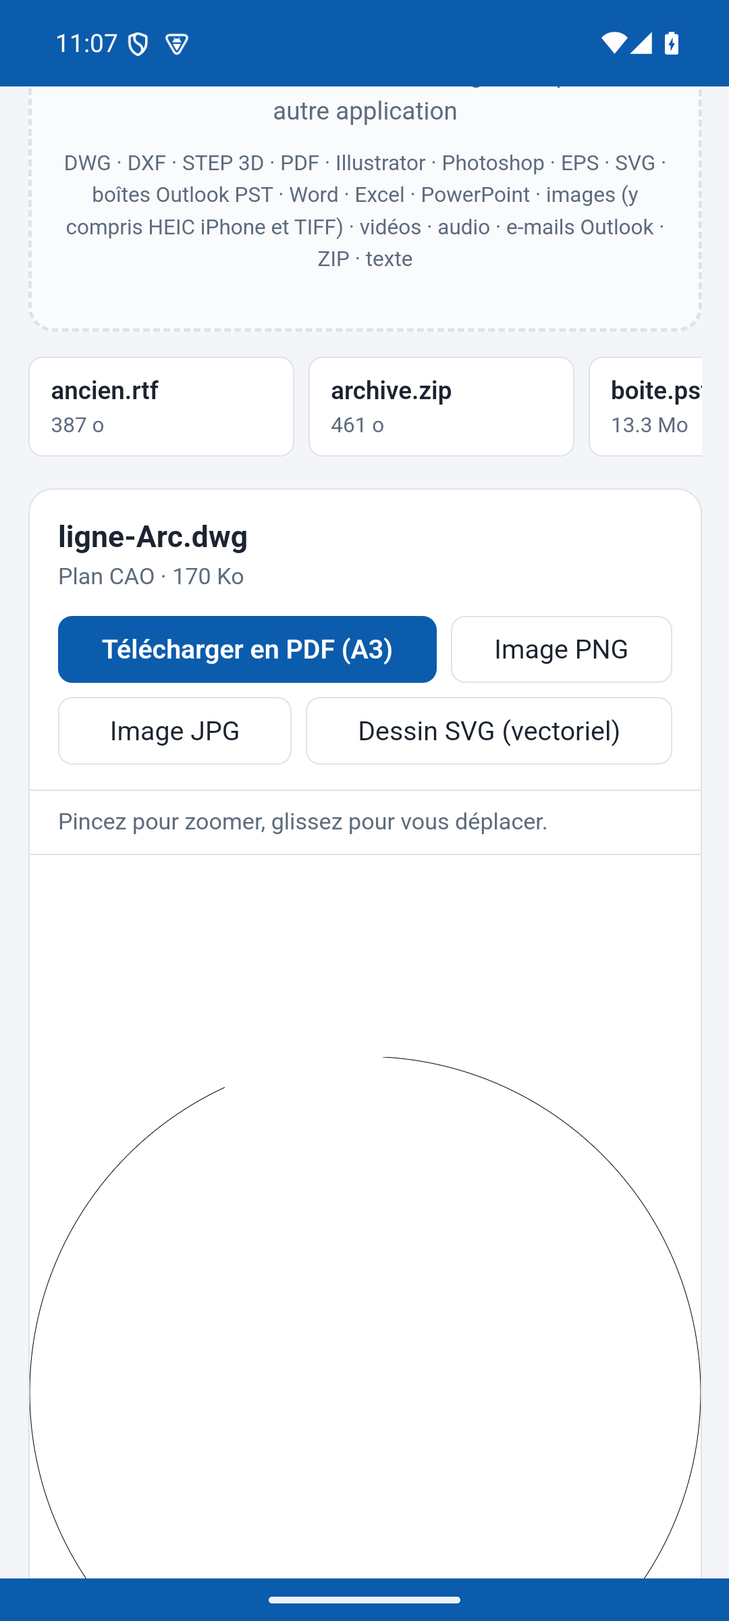
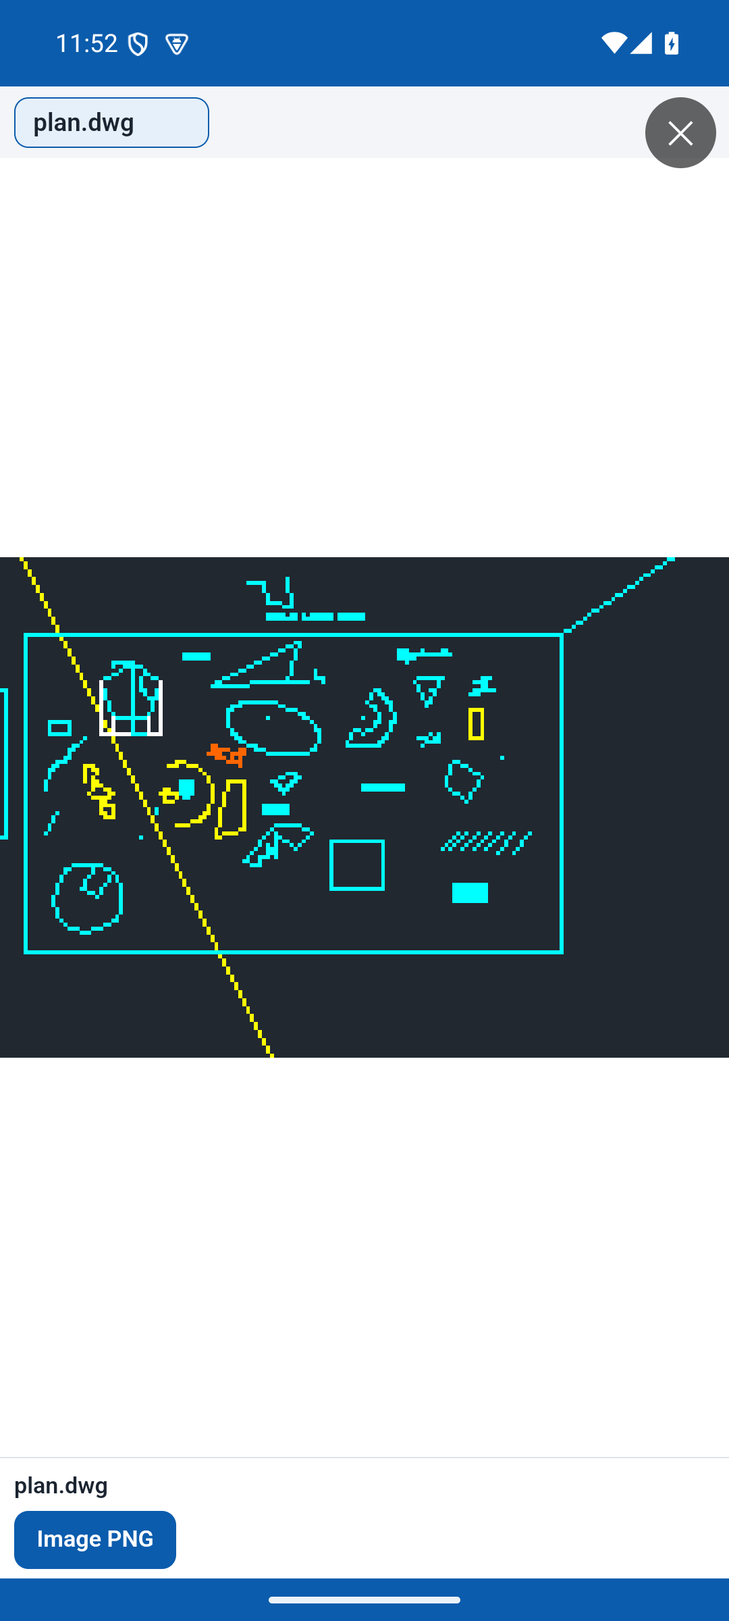
Aperçu visuel plein écran dès l'ouverture d'un fichier
Ajoute le zoom à deux doigts, l'image intégrée des DWG en secours
et l'ouverture d'un dossier entier.

diff --git a/site-source/js/lib-JMNYUMEN.js b/site-source/js/lib-JMNYUMEN.js
@@ -1,3 +1,3 @@
 import{a as N,b as R,d as k,e as T,f as A,l as j}from"./lib-5A73KNPL.js";import"./lib-ELKEZTM7.js";var I=null;async function O(c){let{LibreDwg:o,Dwg_File_Type:l}=await import("./lib-4B4YEU6E.js");I??=await o.create(new URL("./",import.meta.url).href);try{let r=I.dwg_read_data(c,l.DWG);if(!r)throw new Error("Lecture du DWG impossible (fichier prot\xE9g\xE9, endommag\xE9 ou version trop r\xE9cente).");try{let s=I.convert(r);if(!s.entities?.length)throw new Error("Le plan ne contient aucun \xE9l\xE9ment lisible.");return I.dwg_to_svg(s)}finally{I.dwg_free(r)}}catch(e){if(e instanceof WebAssembly.RuntimeError){I=null;o.instance=null}throw e}}async function F(c){let{default:o}=await import("./lib-ZIBAMDM3.js"),l=new o().parseSync(c),r={x1:1/0,y1:1/0,x2:-1/0,y2:-1/0},s=(x,w)=>{!isFinite(x)||!isFinite(w)||(r.x1=Math.min(r.x1,x),r.y1=Math.min(r.y1,w),r.x2=Math.max(r.x2,x),r.y2=Math.max(r.y2,w))},e=x=>+(+x).toFixed(4),u=x=>x*180/Math.PI;function m(x,w=0,h=!0){let f="";for(let t of x||[]){let $=t.vertices||[];switch(t.type){case"LINE":h&&$.forEach(a=>s(a.x,a.y)),f+=`<line x1="${e($[0].x)}" y1="${e($[0].y)}" x2="${e($[1].x)}" y2="${e($[1].y)}"/>`;break;case"LWPOLYLINE":case"POLYLINE":{if(!$.length)break;h&&$.forEach(n=>s(n.x,n.y));let a=$.map(n=>`${e(n.x)},${e(n.y)}`).join(" ");f+=t.shape?`<polygon points="${a}"/>`:`<polyline points="${a}"/>`;break}case"CIRCLE":h&&(s(t.center.x-t.radius,t.center.y-t.radius),s(t.center.x+t.radius,t.center.y+t.radius)),f+=`<circle cx="${e(t.center.x)}" cy="${e(t.center.y)}" r="${e(t.radius)}"/>`;break;case"ARC":{let{x:a,y:n}=t.center,i=t.radius,g=t.startAngle,p=t.endAngle;p<g&&(p+=2*Math.PI);let b=p-g>Math.PI?1:0,[M,P,S,D]=[a+i*Math.cos(g),n+i*Math.sin(g),a+i*Math.cos(p),n+i*Math.sin(p)];h&&(s(M,P),s(S,D),s(a,n)),f+=`<path d="M${e(M)} ${e(P)} A${e(i)} ${e(i)} 0 ${b} 1 ${e(S)} ${e(D)}"/>`;break}case"ELLIPSE":{let{x:a,y:n}=t.center,i=t.majorAxisEndPoint,g=Math.hypot(i.x,i.y),p=g*t.axisRatio,b=u(Math.atan2(i.y,i.x));h&&(s(a-g,n-g),s(a+g,n+g)),f+=`<ellipse cx="${e(a)}" cy="${e(n)}" rx="${e(g)}" ry="${e(p)}" transform="rotate(${e(b)} ${e(a)} ${e(n)})"/>`;break}case"SPLINE":{let a=t.fitPoints?.length?t.fitPoints:t.controlPoints||[];if(!a.length)break;h&&a.forEach(n=>s(n.x,n.y)),f+=`<polyline points="${a.map(n=>`${e(n.x)},${e(n.y)}`).join(" ")}"/>`;break}case"SOLID":case"3DFACE":{let a=(t.points||$).filter(Boolean);a.length&&(f+=`<polygon class="plein" points="${a.map(n=>`${e(n.x)},${e(n.y)}`).join(" ")}"/>`);break}case"TEXT":case"MTEXT":case"ATTRIB":{let a=t.startPoint||t.position;if(!a)break;let n=t.textHeight||t.height||2.5,i=String(t.text||"").replace(/\\P/g," ").replace(/\\[A-Za-z][^;]*;|[{}]/g,"");h&&(s(a.x,a.y),s(a.x+i.length*n*.6,a.y+n));let g=-(t.rotation||0);f+=`<text x="${e(a.x)}" y="${e(-a.y)}" font-size="${e(n)}" transform="scale(1,-1) rotate(${e(g)} ${e(a.x)} ${e(-a.y)})">${i.replace(/[&<>]/g,p=>({"&":"&amp;","<":"&lt;",">":"&gt;"})[p])}</text>`;break}case"INSERT":case"DIMENSION":{let a=l.blocks?.[t.name||t.block];if(!a||w>8)break;let n=t.position||{x:0,y:0},i=t.xScale??1,g=t.yScale??1,p=t.rotation||0,b=a.position||{x:0,y:0};h&&t.type==="INSERT"&&s(n.x,n.y);let M=t.type==="DIMENSION"?"":`translate(${e(n.x)} ${e(n.y)}) rotate(${e(p)}) scale(${e(i)} ${e(g)}) translate(${e(-b.x)} ${e(-b.y)})`;f+=`<g transform="${M}">${m(a.entities,w+1,t.type==="DIMENSION"&&h)}</g>`;break}}}return f}let y=m(l.entities);if(!isFinite(r.x1))throw new Error("Le plan ne contient aucun \xE9l\xE9ment affichable.");let d=r.x2-r.x1||1,E=r.y2-r.y1||1,L=Math.max(d,E)*.03,C=Math.max(d,E)/2500;return`<svg xmlns="http://www.w3.org/2000/svg" viewBox="${e(r.x1-L)} ${e(-r.y2-L)} ${e(d+2*L)} ${e(E+2*L)}">
 <style>*{fill:none;stroke:#000;stroke-width:${e(C)}px;vector-effect:non-scaling-stroke}text{fill:#000;stroke:none;font-family:Arial,sans-serif}.plein{fill:#000}</style>
-<g transform="scale(1,-1)">${y}</g></svg>`}function U(c){return c.replace(/rgb\(255,\s*255,\s*255\)/g,"rgb(0,0,0)").replace(/#ffffff\b/gi,"#000000").replace(/(<svg[^>]*?)\swidth="100%"\s+height="100%"/,"$1")}function B(c){let o=c.match(/viewBox="([^"]+)"/)?.[1].trim().split(/[\s,]+/).map(Number);return o&&o[2]>0&&o[3]>0?{l:o[2],h:o[3]}:{l:1.414,h:1}}async function v(c,o){let{l,h:r}=B(c),s=o/Math.max(l,r),e=c.replace(/<svg\b/,`<svg width="${Math.round(l*s)}" height="${Math.round(r*s)}"`),u=URL.createObjectURL(new Blob([e],{type:"image/svg+xml"}));try{let m=new Image;m.src=u,await m.decode();let y=T(l*s,r*s);return y.getContext("2d").drawImage(m,0,0,y.width,y.height),y}finally{URL.revokeObjectURL(u)}}async function G(c,o,l){l.statut("Lecture du plan\u2026");let r=await c.arrayBuffer(),s=U(R(c.name)==="dwg"?await O(r):await F(new TextDecoder().decode(r)));l.statut("Pincez pour zoomer, glissez pour vous d\xE9placer.");let e=new Blob([s],{type:"image/svg+xml"}),{l:u,h:m}=B(s);o.innerHTML="",o.classList.add("plan");let y=new Image;y.src=URL.createObjectURL(e),y.alt=c.name,y.draggable=!1,y.style.aspectRatio=`${u} / ${m}`,o.appendChild(y),j(o,y);let d=N(c.name);return[{libelle:"T\xE9l\xE9charger en PDF (A3)",principal:!0,faire:async()=>l.telecharger(await A([await v(s,4200)],"A3"),d+".pdf")},{libelle:"Image PNG",faire:async()=>l.telecharger(await k(await v(s,4200)),d+".png")},{libelle:"Image JPG",faire:async()=>l.telecharger(await k(await v(s,4200),"image/jpeg"),d+".jpg")},{libelle:"Dessin SVG (vectoriel)",aide:"S'ouvre dans tout navigateur, zoom sans perte",faire:async()=>l.telecharger(e,d+".svg")}]}export{G as ouvrir};
+<g transform="scale(1,-1)">${y}</g></svg>`}function U(c){return c.replace(/rgb\(255,\s*255,\s*255\)/g,"rgb(0,0,0)").replace(/#ffffff\b/gi,"#000000").replace(/(<svg[^>]*?)\swidth="100%"\s+height="100%"/,"$1")}function B(c){let o=c.match(/viewBox="([^"]+)"/)?.[1].trim().split(/[\s,]+/).map(Number);return o&&o[2]>0&&o[3]>0?{l:o[2],h:o[3]}:{l:1.414,h:1}}async function v(c,o){let{l,h:r}=B(c),s=o/Math.max(l,r),e=c.replace(/<svg\b/,`<svg width="${Math.round(l*s)}" height="${Math.round(r*s)}"`),u=URL.createObjectURL(new Blob([e],{type:"image/svg+xml"}));try{let m=new Image;m.src=u,await m.decode();let y=T(l*s,r*s);return y.getContext("2d").drawImage(m,0,0,y.width,y.height),y}finally{URL.revokeObjectURL(u)}}async function G(c,o,l){l.statut("Lecture du plan\u2026");let r=await c.arrayBuffer(),s=U(R(c.name)==="dwg"?await O(r):await F(new TextDecoder().decode(r)));l.statut("Pincez pour zoomer, glissez pour vous d\xE9placer.");let e=new Blob([s],{type:"image/svg+xml"}),{l:u,h:m}=B(s);o.innerHTML="",o.classList.add("plan");let y=new Image;y.src=URL.createObjectURL(e),y.alt=c.name,y.draggable=!1,y.style.aspectRatio=`${u} / ${m}`,o.appendChild(y),j(o,y);let d=N(c.name);return[{libelle:"T\xE9l\xE9charger en PDF (A3)",principal:!0,faire:async()=>l.telecharger(await A([await v(s,4200)],"A3"),d+".pdf")},{libelle:"Image PNG",faire:async()=>l.telecharger(await k(await v(s,4200)),d+".png")},{libelle:"Image JPG",faire:async()=>l.telecharger(await k(await v(s,4200),"image/jpeg"),d+".jpg")},{libelle:"Dessin SVG (vectoriel)",aide:"S'ouvre dans tout navigateur, zoom sans perte",faire:async()=>l.telecharger(e,d+".svg")}]}async function H(c,o,l,r){try{return await G(c,o,l,r)}catch(s){if(R(c.name)==="dwg"){let e=await(await import("./apercu-dwg.js")).afficher(c,o,l,j);if(e)return e}throw s}}export{H as ouvrir};

diff --git a/site-source/js/lib-5A73KNPL.js b/site-source/js/lib-5A73KNPL.js
@@ -1,1 +1,1 @@
-var m=n=>n.replace(/\.[^.]+$/,""),f=n=>(n.match(/\.([^.]+)$/)?.[1]||"").toLowerCase();function w(n,a){let t=document.createElement("a");t.href=URL.createObjectURL(n),t.download=a,document.body.appendChild(t),t.click(),t.remove(),setTimeout(()=>URL.revokeObjectURL(t.href),6e4)}var u=(n,a="image/png",t=.92)=>new Promise(i=>n.toBlob(i,a,t));function x(n,a,t="#ffffff"){let i=document.createElement("canvas");i.width=Math.round(n),i.height=Math.round(a);let e=i.getContext("2d");return t&&(e.fillStyle=t,e.fillRect(0,0,i.width,i.height)),i}var g={A4:[595.28,841.89],A3:[841.89,1190.55]};async function v(n,a="A4"){let{PDFDocument:t}=await import("./lib-KSVUEERB.js"),i=await t.create();for(let e of n){let s=await i.embedJpg(await(await u(e,"image/jpeg",.9)).arrayBuffer()),[r,o]=a==="image"?[e.width*.75,e.height*.75]:g[a];a!=="image"&&e.width>e.height&&([r,o]=[o,r]);let d=a==="image"?0:20,c=Math.min((r-2*d)/e.width,(o-2*d)/e.height);i.addPage([r,o]).drawImage(s,{x:(r-e.width*c)/2,y:(o-e.height*c)/2,width:e.width*c,height:e.height*c})}return new Blob([await i.save()],{type:"application/pdf"})}async function b(n){let a=await import("./lib-3NFRFBSE.js"),t=[];for(let e of n)if(e.saut)t.push(new a.Paragraph({children:[new a.PageBreak]}));else if(e.titre)t.push(new a.Paragraph({text:e.titre,heading:a.HeadingLevel.HEADING_1}));else if(e.image){let r=Math.min(1,640/e.image.largeur,900/e.image.hauteur);t.push(new a.Paragraph({children:[new a.ImageRun({type:e.image.type||"png",data:e.image.data,transformation:{width:Math.round(e.image.largeur*r),height:Math.round(e.image.hauteur*r)}})]}))}else t.push(new a.Paragraph({text:e.texte??""}));let i=new a.Document({sections:[{children:t}]});return a.Packer.toBlob(i)}function y(n,a=!1){let t=document.createElement("style");t.textContent=`@page { size: ${a?"landscape":"portrait"}; margin: 12mm; }`,document.head.appendChild(t);let i=document.title;document.title=m(n),document.body.classList.add("impression"),window.print(),document.body.classList.remove("impression"),document.title=i,t.remove()}function L(n){try{return new TextDecoder("utf-8",{fatal:!0}).decode(n)}catch{return new TextDecoder("windows-1252").decode(n)}}function P(n){let a=Math.min(n.length,4096),t=0;for(let i=0;i<a;i++){let e=n[i];if(e===0)return!1;(e<9||e>13&&e<32)&&t++}return t<a*.02}function D(n){return String(n).replace(/[&<>"']/g,a=>({"&":"&amp;","<":"&lt;",">":"&gt;",'"':"&quot;","'":"&#39;"})[a])}function E(n,a){let t=1,i=0,e=0,s=null;n.classList.add("zoomable");let r=()=>{a.style.transform=`translate(${i}px, ${e}px) scale(${t})`};n.addEventListener("wheel",o=>{o.preventDefault();let d=n.getBoundingClientRect(),c=o.clientX-d.left,l=o.clientY-d.top,h=o.deltaY<0?1.2:1/1.2,p=Math.min(40,Math.max(.2,t*h));i=c-(c-i)*(p/t),e=l-(l-e)*(p/t),t=p,r()},{passive:!1}),n.addEventListener("pointerdown",o=>{s=[o.clientX-i,o.clientY-e],n.setPointerCapture(o.pointerId)}),n.addEventListener("pointermove",o=>{s&&(i=o.clientX-s[0],e=o.clientY-s[1],r())}),n.addEventListener("pointerup",()=>{s=null}),n.addEventListener("dblclick",()=>{t=1,i=e=0,r()})}export{m as a,f as b,w as c,u as d,x as e,v as f,b as g,y as h,L as i,P as j,D as k,E as l};
+var m=n=>n.replace(/\.[^.]+$/,""),f=n=>(n.match(/\.([^.]+)$/)?.[1]||"").toLowerCase();function w(n,a){let t=document.createElement("a");t.href=URL.createObjectURL(n),t.download=a,document.body.appendChild(t),t.click(),t.remove(),setTimeout(()=>URL.revokeObjectURL(t.href),6e4)}var u=(n,a="image/png",t=.92)=>new Promise(i=>n.toBlob(i,a,t));function x(n,a,t="#ffffff"){let i=document.createElement("canvas");i.width=Math.round(n),i.height=Math.round(a);let e=i.getContext("2d");return t&&(e.fillStyle=t,e.fillRect(0,0,i.width,i.height)),i}var g={A4:[595.28,841.89],A3:[841.89,1190.55]};async function v(n,a="A4"){let{PDFDocument:t}=await import("./lib-KSVUEERB.js"),i=await t.create();for(let e of n){let s=await i.embedJpg(await(await u(e,"image/jpeg",.9)).arrayBuffer()),[r,o]=a==="image"?[e.width*.75,e.height*.75]:g[a];a!=="image"&&e.width>e.height&&([r,o]=[o,r]);let d=a==="image"?0:20,c=Math.min((r-2*d)/e.width,(o-2*d)/e.height);i.addPage([r,o]).drawImage(s,{x:(r-e.width*c)/2,y:(o-e.height*c)/2,width:e.width*c,height:e.height*c})}return new Blob([await i.save()],{type:"application/pdf"})}async function b(n){let a=await import("./lib-3NFRFBSE.js"),t=[];for(let e of n)if(e.saut)t.push(new a.Paragraph({children:[new a.PageBreak]}));else if(e.titre)t.push(new a.Paragraph({text:e.titre,heading:a.HeadingLevel.HEADING_1}));else if(e.image){let r=Math.min(1,640/e.image.largeur,900/e.image.hauteur);t.push(new a.Paragraph({children:[new a.ImageRun({type:e.image.type||"png",data:e.image.data,transformation:{width:Math.round(e.image.largeur*r),height:Math.round(e.image.hauteur*r)}})]}))}else t.push(new a.Paragraph({text:e.texte??""}));let i=new a.Document({sections:[{children:t}]});return a.Packer.toBlob(i)}function y(n,a=!1){let t=document.createElement("style");t.textContent=`@page { size: ${a?"landscape":"portrait"}; margin: 12mm; }`,document.head.appendChild(t);let i=document.title;document.title=m(n),document.body.classList.add("impression"),window.print(),document.body.classList.remove("impression"),document.title=i,t.remove()}function L(n){try{return new TextDecoder("utf-8",{fatal:!0}).decode(n)}catch{return new TextDecoder("windows-1252").decode(n)}}function P(n){let a=Math.min(n.length,4096),t=0;for(let i=0;i<a;i++){let e=n[i];if(e===0)return!1;(e<9||e>13&&e<32)&&t++}return t<a*.02}function D(n){return String(n).replace(/[&<>"']/g,a=>({"&":"&amp;","<":"&lt;",">":"&gt;",'"':"&quot;","'":"&#39;"})[a])}function E(n,a){let t=1,i=0,e=0,s=null;n.classList.add("zoomable");let r=()=>{a.style.transform=`translate(${i}px, ${e}px) scale(${t})`};n.addEventListener("wheel",o=>{o.preventDefault();let d=n.getBoundingClientRect(),c=o.clientX-d.left,l=o.clientY-d.top,h=o.deltaY<0?1.2:1/1.2,p=Math.min(40,Math.max(.2,t*h));i=c-(c-i)*(p/t),e=l-(l-e)*(p/t),t=p,r()},{passive:!1}),(()=>{let D=new Map,g=null,q=()=>[...D.values()],C=()=>{let[o,d]=q(),c=n.getBoundingClientRect();return{x:(o.x+d.x)/2-c.left,y:(o.y+d.y)/2-c.top,l:Math.hypot(o.x-d.x,o.y-d.y)||1}},U=()=>{let o=q();g=o.length===2?{...C(),t,i,e}:null,s=o.length===1?[o[0].x-i,o[0].y-e]:null};n.addEventListener("pointerdown",o=>{D.set(o.pointerId,{x:o.clientX,y:o.clientY}),n.setPointerCapture(o.pointerId),U()}),n.addEventListener("pointermove",o=>{if(D.has(o.pointerId)){if(D.set(o.pointerId,{x:o.clientX,y:o.clientY}),g&&D.size===2){let d=C(),c=Math.min(40,Math.max(.2,g.t*d.l/g.l));i=d.x-(g.x-g.i)*(c/g.t),e=d.y-(g.y-g.e)*(c/g.t),t=c,r()}else s&&(i=o.clientX-s[0],e=o.clientY-s[1],r())}});let V=o=>{D.delete(o.pointerId),U()};n.addEventListener("pointerup",V),n.addEventListener("pointercancel",V)})(),n.addEventListener("dblclick",()=>{t=1,i=e=0,r()})}export{m as a,f as b,w as c,u as d,x as e,v as f,b as g,y as h,L as i,P as j,D as k,E as l};

diff --git a/app/src/main/java/fr/jeremyai/lecteur/MainActivity.kt b/app/src/main/java/fr/jeremyai/lecteur/MainActivity.kt
@@ -10,6 +10,7 @@ import android.print.PageRange
 import android.print.PrintAttributes
 import android.print.PrintDocumentAdapter
 import android.print.PrintManager
+import android.provider.DocumentsContract
 import android.provider.OpenableColumns
 import android.util.Base64
 import android.util.Log
@@ -26,6 +27,7 @@ import android.webkit.WebViewClient
 import android.widget.FrameLayout
 import android.widget.Toast
 import androidx.activity.ComponentActivity
+import androidx.activity.OnBackPressedCallback
 import androidx.activity.result.contract.ActivityResultContracts
 import androidx.core.view.ViewCompat
 import androidx.core.view.WindowInsetsCompat
@@ -40,6 +42,7 @@ import java.util.concurrent.atomic.AtomicInteger
 private const val HOTE = "appassets.androidplatform.net"
 private const val ORIGINE = "https://$HOTE"
 private const val PREFIXE_ENTRANT = "/__entrant/"
+private const val MAX_FICHIERS_DOSSIER = 100
 
 // Même politique que public/_headers sur le site.
 private const val CSP = "default-src 'self'; script-src 'self' 'wasm-unsafe-eval' 'unsafe-eval'; " +
@@ -70,6 +73,21 @@ class MainActivity : ComponentActivity() {
     private val choisir = registerForActivityResult(ActivityResultContracts.OpenMultipleDocuments()) { uris ->
         rappelChoix?.onReceiveValue(uris.toTypedArray())
         rappelChoix = null
+    }
+
+    private val choisirDossier = registerForActivityResult(ActivityResultContracts.OpenDocumentTree()) { arbre ->
+        if (arbre == null) return@registerForActivityResult
+        Thread {
+            val fichiers = mutableListOf<Pair<Uri, String>>()
+            parcourir(arbre, DocumentsContract.getTreeDocumentId(arbre), fichiers)
+            runOnUiThread {
+                if (fichiers.size >= MAX_FICHIERS_DOSSIER) {
+                    Toast.makeText(this, "Dossier limité aux $MAX_FICHIERS_DOSSIER premiers fichiers", Toast.LENGTH_LONG).show()
+                }
+                fichiers.sortedBy { it.second.lowercase() }.forEach { (uri, nom) -> ajouter(uri, nom, "") }
+                livrer()
+            }
+        }.start()
     }
 
     private val enregistrer = registerForActivityResult(ActivityResultContracts.StartActivityForResult()) { resultat ->
@@ -105,6 +123,13 @@ class MainActivity : ComponentActivity() {
             insets
         }
         File(cacheDir, "sorties").deleteRecursively()
+        onBackPressedDispatcher.addCallback(this, object : OnBackPressedCallback(true) {
+            override fun handleOnBackPressed() {
+                web.evaluateJavascript("window.__lecteurRetour()") { ferme ->
+                    if (ferme != "true") finish()
+                }
+            }
+        })
         web.loadUrl("$ORIGINE/index.html")
         recevoir(intent)
     }
@@ -212,16 +237,36 @@ class MainActivity : ComponentActivity() {
             Intent.ACTION_SEND_MULTIPLE -> flux2(intent)
             else -> emptyList()
         }
-        for (uri in uris) {
-            val id = compteur.incrementAndGet().toString()
-            val nom = nomDe(uri)
-            val type = intent?.type ?: contentResolver.getType(uri) ?: "application/octet-stream"
-            entrants[id] = Entrant(uri, nom, "application/octet-stream")
-            enAttente += JSONObject().put("url", PREFIXE_ENTRANT + id).put("nom", nom).put("type", type)
-        }
+        for (uri in uris) ajouter(uri, nomDe(uri), intent?.type ?: contentResolver.getType(uri).orEmpty())
         // Évite de rouvrir le même fichier si Android recrée l'écran.
         intent?.action = Intent.ACTION_MAIN
         livrer()
+    }
+
+    private fun ajouter(uri: Uri, nom: String, type: String) {
+        val id = compteur.incrementAndGet().toString()
+        entrants[id] = Entrant(uri, nom, "application/octet-stream")
+        enAttente += JSONObject().put("url", PREFIXE_ENTRANT + id).put("nom", nom).put("type", type)
+    }
+
+    private fun parcourir(arbre: Uri, parent: String, fichiers: MutableList<Pair<Uri, String>>) {
+        val enfants = DocumentsContract.buildChildDocumentsUriUsingTree(arbre, parent)
+        val colonnes = arrayOf(
+            DocumentsContract.Document.COLUMN_DOCUMENT_ID,
+            DocumentsContract.Document.COLUMN_DISPLAY_NAME,
+            DocumentsContract.Document.COLUMN_MIME_TYPE,
+        )
+        contentResolver.query(enfants, colonnes, null, null, null)?.use { curseur ->
+            while (curseur.moveToNext() && fichiers.size < MAX_FICHIERS_DOSSIER) {
+                val id = curseur.getString(0)
+                val nom = curseur.getString(1)
+                when {
+                    nom.startsWith(".") -> Unit
+                    curseur.getString(2) == DocumentsContract.Document.MIME_TYPE_DIR -> parcourir(arbre, id, fichiers)
+                    else -> fichiers += DocumentsContract.buildDocumentUriUsingTree(arbre, id) to nom
+                }
+            }
+        }
     }
 
     @Suppress("DEPRECATION")
@@ -306,6 +351,9 @@ class MainActivity : ComponentActivity() {
                 enregistrerSuivant()
             }
         }
+
+        @JavascriptInterface
+        fun choisirDossier() = runOnUiThread { this@MainActivity.choisirDossier.launch(null) }
 
         @JavascriptInterface
         fun imprimer(titre: String) = runOnUiThread { this@MainActivity.imprimer(titre) }

diff --git a/site-source/js/apercu-dwg.js b/site-source/js/apercu-dwg.js
@@ -1,0 +1,65 @@
+// Image de secours des plans DWG : presque tous embarquent un petit aperçu enregistré par le logiciel de CAO.
+// Il prend le relais quand le plan est trop complexe pour le moteur LibreDWG.
+const SENTINELLE = [0x1f, 0x25, 0x6d, 0x07, 0xd4, 0x36, 0x28, 0x28, 0x9d, 0x57, 0xca, 0x3f, 0x9d, 0x44, 0x10, 0x2b];
+
+function bmpDepuisDib(dib) {
+  const vue = new DataView(dib.buffer, dib.byteOffset, dib.byteLength);
+  const entete = vue.getUint32(0, true);
+  const bits = vue.getUint16(14, true);
+  const couleurs = vue.getUint32(32, true) || (bits <= 8 ? 2 ** bits : 0);
+  const bmp = new Uint8Array(14 + dib.length);
+  const sortie = new DataView(bmp.buffer);
+  bmp.set([0x42, 0x4d]);
+  sortie.setUint32(2, bmp.length, true);
+  sortie.setUint32(10, 14 + entete + couleurs * 4, true);
+  bmp.set(dib, 14);
+  return new Blob([bmp], { type: "image/bmp" });
+}
+
+export async function apercuIntegre(fichier) {
+  const octets = new Uint8Array(await fichier.arrayBuffer());
+  const vue = new DataView(octets.buffer);
+  if (octets.length < 0x20) return null;
+  const debut = vue.getUint32(0x0d, true);
+  if (debut + 21 > octets.length || SENTINELLE.some((o, i) => octets[debut + i] !== o)) return null;
+  const nombre = octets[debut + 20];
+  for (let i = 0, p = debut + 21; i < nombre; i++, p += 9) {
+    const code = octets[p];
+    const depart = vue.getUint32(p + 1, true);
+    const longueur = vue.getUint32(p + 5, true);
+    if (depart + longueur > octets.length) continue;
+    const donnees = octets.subarray(depart, depart + longueur);
+    if (code === 6) return new Blob([donnees], { type: "image/png" });
+    if (code === 2) return bmpDepuisDib(donnees);
+  }
+  return null;
+}
+
+export async function afficher(fichier, apercu, ctx, activerZoom) {
+  const image = await apercuIntegre(fichier);
+  if (!image) return null;
+  const img = new Image();
+  img.src = URL.createObjectURL(image);
+  await img.decode();
+  apercu.innerHTML = "";
+  apercu.classList.add("plan");
+  img.alt = fichier.name;
+  img.draggable = false;
+  img.style.imageRendering = "pixelated";
+  apercu.appendChild(img);
+  activerZoom(apercu, img);
+  ctx.statut("Plan trop complexe pour un rendu complet : voici l'aperçu enregistré dans le fichier.");
+  const nom = fichier.name.replace(/\.[^.]+$/, "");
+  return [{
+    libelle: "Image PNG",
+    principal: true,
+    faire: async () => {
+      const toile = document.createElement("canvas");
+      toile.width = img.naturalWidth;
+      toile.height = img.naturalHeight;
+      toile.getContext("2d").drawImage(img, 0, 0);
+      const blob = await new Promise((ok) => toile.toBlob(ok, "image/png"));
+      ctx.telecharger(blob, nom + ".png");
+    },
+  }];
+}

diff --git a/site-source/style.css b/site-source/style.css
@@ -176,3 +176,28 @@ pre.brut { white-space: pre-wrap; overflow-wrap: anywhere; font: 12px/1.45 Conso
   body.impression .feuille td { border-color: #999; }
   body.impression .mail { color: #000; background: #fff; }
 }
+
+/* Application Android : dès qu'un fichier arrive, l'image occupe tout l'écran */
+.ouvrir-dossier { display: block; width: 100%; margin-top: 10px; padding: 12px; font-weight: 600; }
+.fermer { display: none; }
+@media screen {
+  body.visuel { height: 100dvh; min-height: 0; overflow: hidden; }
+  body.visuel .haut, body.visuel .zone, body.visuel .bas, body.visuel .ouvrir-dossier { display: none; }
+  body.visuel main { padding: 0; max-width: none; height: 100%; display: flex; flex-direction: column; min-height: 0; }
+  body.visuel .liste { flex: none; padding: 6px 52px 6px 8px; }
+  body.visuel .puce { min-width: 110px; padding: 3px 10px; }
+  body.visuel .puce small { display: none; }
+  body.visuel .panneau { flex: 1; min-height: 0; margin: 0; border: 0; border-radius: 0; display: flex; flex-direction: column; }
+  body.visuel .apercu { order: 1; flex: 1; min-height: 0; height: auto; max-height: none; }
+  body.visuel .etat { order: 2; flex: none; }
+  body.visuel .etat:not(.ok):not(.erreur) { display: none; }
+  body.visuel .barre { order: 3; flex: none; padding: 6px 8px; border-top: 1px solid var(--bord); border-bottom: 0; display: block; }
+  body.visuel .entete h2 { font-size: 13px; font-weight: 600; white-space: nowrap; overflow: hidden; text-overflow: ellipsis; }
+  body.visuel .entete p { display: none; }
+  body.visuel .actions { flex-wrap: nowrap; overflow-x: auto; margin-top: 4px; }
+  body.visuel .actions button { flex: none; white-space: nowrap; padding: 6px 12px; font-size: 13px; }
+  body.visuel .apercu.media video { max-height: 100%; }
+  body.visuel .apercu.pages { padding: 6px; gap: 8px; }
+  body.visuel .fermer { display: block; position: fixed; top: calc(var(--marge-haut, 0px) + 6px); right: 8px; z-index: 5; width: 40px; height: 40px;
+    padding: 0; border-radius: 50%; background: rgba(0,0,0,.6); border-color: transparent; color: #fff; font-size: 18px; }
+}

diff --git a/site-source/js/android.js b/site-source/js/android.js
@@ -79,12 +79,20 @@
     } catch (e) { console.error(e); }
   }, true);
 
-  // Sur téléphone, l'aperçu est sous la zone de choix : on y descend dès qu'un document s'ouvre.
+  // L'image avant tout : la mise en page plein écran se pose avant que le lecteur mesure son espace.
   document.addEventListener("DOMContentLoaded", () => {
-    const entete = document.querySelector("#entete");
-    new MutationObserver(() => entete.closest("section").scrollIntoView())
-      .observe(entete, { childList: true });
+    const panneau = document.querySelector("#panneau");
+    new MutationObserver(() => document.body.classList.toggle("visuel", !panneau.hidden))
+      .observe(panneau, { attributes: true, attributeFilter: ["hidden"] });
+    document.querySelector("#fermer").onclick = () => { window.__lecteurRetour(); };
+    document.querySelector("#dossier").onclick = () => pont.choisirDossier();
   });
+  window.__lecteurRetour = () => {
+    const panneau = document.querySelector("#panneau");
+    if (panneau.hidden) return false;
+    panneau.hidden = true;
+    return true;
+  };
 
   // Fichiers reçus par « Ouvrir avec » ou « Partager ».
   window.__lecteurOuvrir = async (liste) => {

diff --git a/site-source/index.html b/site-source/index.html
@@ -18,11 +18,13 @@
 </header>
 
 <main>
+  <button id="fermer" class="fermer" type="button" aria-label="Fermer l'aperçu">✕</button>
   <div id="zone" class="zone" tabindex="0" role="button" aria-label="Choisir des fichiers">
     <strong>Touchez ici pour choisir vos fichiers</strong>
     <span>ou utilisez « Ouvrir avec » et « Partager » depuis une autre application</span>
     <small>DWG · DXF · STEP 3D · PDF · Illustrator · Photoshop · EPS · SVG · boîtes Outlook PST · Word · Excel · PowerPoint · images (y compris HEIC iPhone et TIFF) · vidéos · audio · e-mails Outlook · ZIP · texte</small>
   </div>
+  <button id="dossier" class="ouvrir-dossier" type="button">Ouvrir un dossier entier</button>
   <input id="choix" type="file" multiple hidden>
 
   <nav id="liste" class="liste" hidden></nav>

diff --git a/tests/gestes.py b/tests/gestes.py
@@ -1,0 +1,22 @@
+#!/usr/bin/env python3
+"""Vérifie le mode plein écran et le zoom à deux doigts sur le fichier affiché. Usage : tests/gestes.py <fichier>"""
+import json, sys, time
+import banc
+
+ws = banc.connecter()
+banc.tester(ws, f"{banc.ICI}/fichiers/{sys.argv[1]}")
+time.sleep(1)
+print(ws.js("""JSON.stringify({visuel:document.body.className,
+  apercu:Math.round(document.querySelector('#apercu').getBoundingClientRect().height),
+  ecran:innerHeight, haut:getComputedStyle(document.querySelector('.haut')).display})"""))
+transforme = "(document.querySelector('#apercu img,#apercu canvas')||{style:{}}).style.transform"
+print("avant :", ws.js(transforme))
+x, y, ecart = 200, 450, 40
+pts = lambda e: [{"x": x - e, "y": y, "id": 0}, {"x": x + e, "y": y, "id": 1}]
+ws.cdp("Input.dispatchTouchEvent", type="touchStart", touchPoints=pts(ecart))
+for pas in range(1, 9):
+    ws.cdp("Input.dispatchTouchEvent", type="touchMove", touchPoints=pts(ecart + pas * 15))
+    time.sleep(0.03)
+ws.cdp("Input.dispatchTouchEvent", type="touchEnd", touchPoints=[])
+time.sleep(0.4)
+print("après :", ws.js(transforme))

diff --git a/README.md b/README.md
@@ -11,6 +11,8 @@ Conçue par [Jérémy Gonin](https://jeremyai.fr), coach en intelligence artific
 ## Ce qu'elle fait
 
 - Ouvre un fichier depuis l'application, ou depuis « Ouvrir avec » et « Partager » dans n'importe quelle autre application.
+- Affiche aussitôt l'image du fichier en plein écran, avec zoom à deux doigts.
+- Ouvre un dossier entier, sous-dossiers compris, jusqu'à 100 fichiers.
 - Reconnaît le vrai format d'après le contenu, même si l'extension est fausse.
 - Convertit vers PDF, Word, images, CSV ou STL selon le fichier.
 - Affiche toujours quelque chose : si un lecteur échoue, une lecture minimale prend le relais.
@@ -42,8 +44,8 @@ Les fichiers d'essai ne sont pas publiés dans ce dépôt.
 
 Prototype 0.1.0, testé sur émulateur Android 15. Limites connues :
 
-- Certains plans DWG complexes ne s'ouvrent pas et passent en lecture minimale.
-- Le zoom à deux doigts et les très gros fichiers restent à vérifier sur un vrai téléphone.
+- Certains plans DWG complexes ne s'ouvrent pas en entier : l'application montre alors la petite image enregistrée dans le fichier.
+- Les très gros fichiers restent à vérifier sur un vrai téléphone.
 
 ## Licence
 

diff --git a/NOTICE.md b/NOTICE.md
@@ -27,3 +27,6 @@ Le code compilé peut contenir d'autres bibliothèques non identifiées. Si vous
 - `js/lib-45FWJP6G.js` : correction de l'ouverture des e-mails `.msg`.
 - `js/lib-JMNYUMEN.js` : moteur DWG remis à zéro après un plantage, texte d'aide tactile.
 - `js/main.js` : message affiché après une conversion.
+- `js/lib-5A73KNPL.js` : zoom à deux doigts sur les plans et les images.
+- `js/lib-JMNYUMEN.js` : recours à l'image intégrée au DWG (`js/apercu-dwg.js`) si le plan est trop complexe.
+- `index.html` et `style.css` : bouton Dossier et affichage plein écran.
